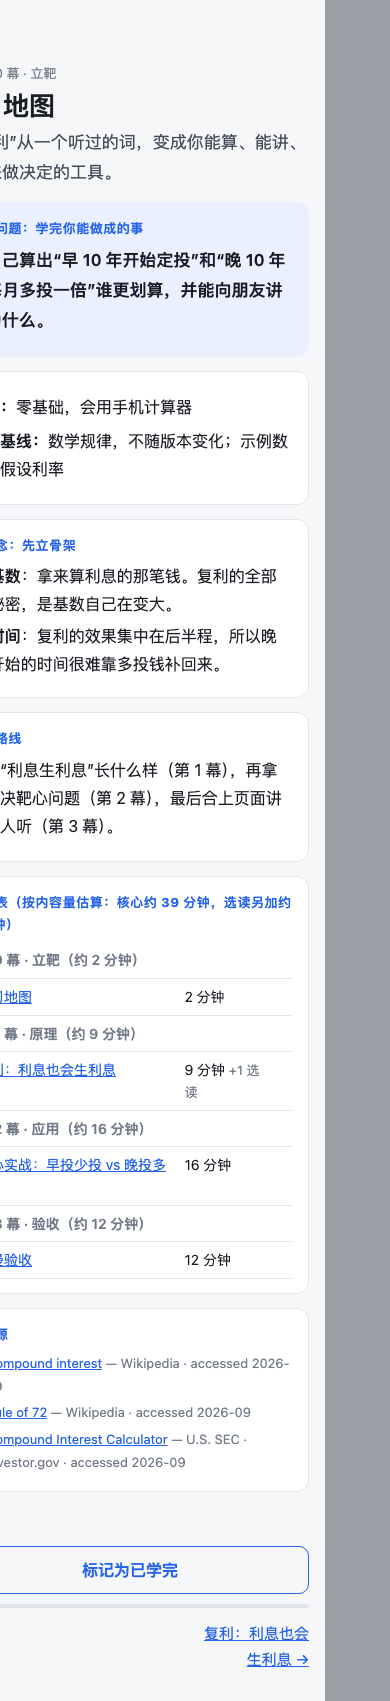
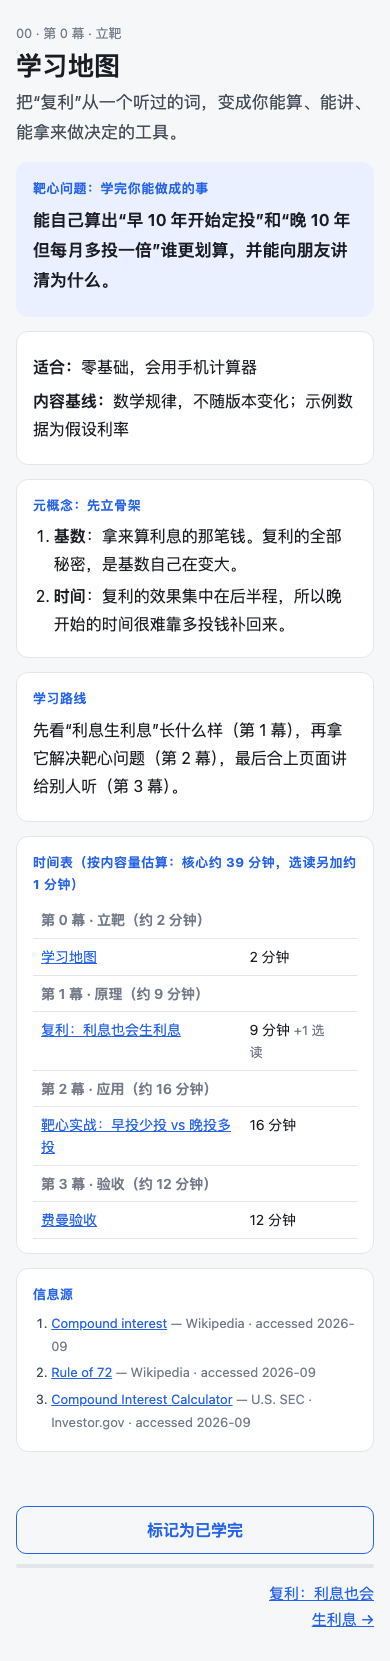
Fix README screenshots and shorten acknowledgements
The phone screenshots were cropped from the centre, cutting off the left
edge of the page and keeping the grey filler on the right. Recrop from the
page's real left edge and trim the blank top band.

diff --git a/README.md b/README.md
@@ -106,7 +106,7 @@ python3 $S/merge_verdicts.py <课程目录> [--dry-run]     # 合并多个核查
 
 ## 致谢
 
-思路来自朱卫军的 [learn-in-3-hours](https://github.com/zhuweijun1003-source/zhuwj-skills)。本仓库的 SKILL.md、规范文档和脚本都是重新写的，没有收录原仓库的文件。
+灵感来自朱卫军的 [learn-in-3-hours](https://github.com/zhuweijun1003-source/zhuwj-skills)。
 
 ## 许可证
 
